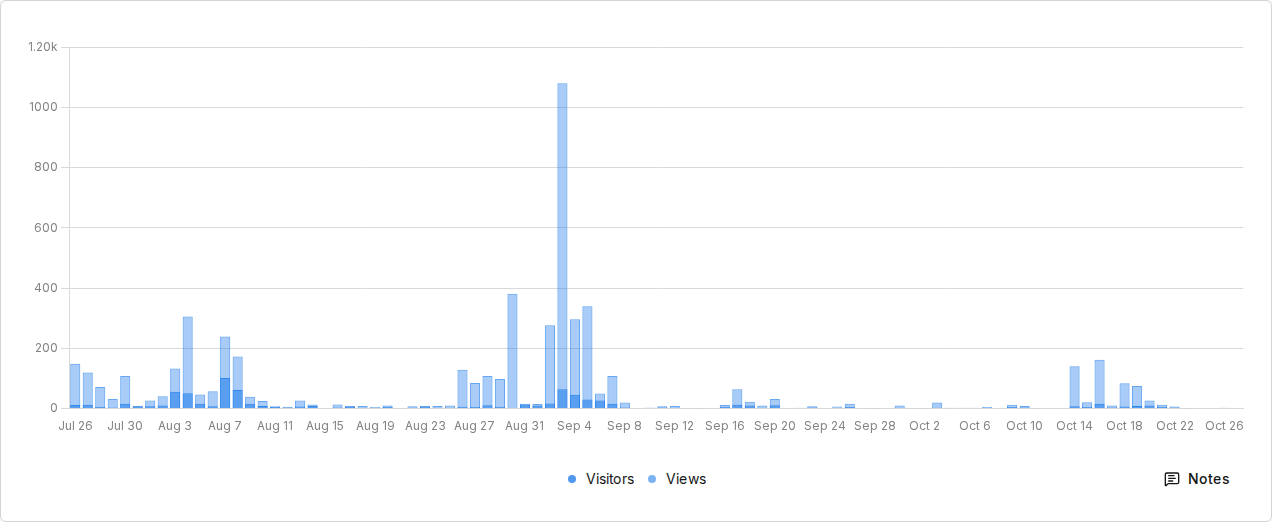
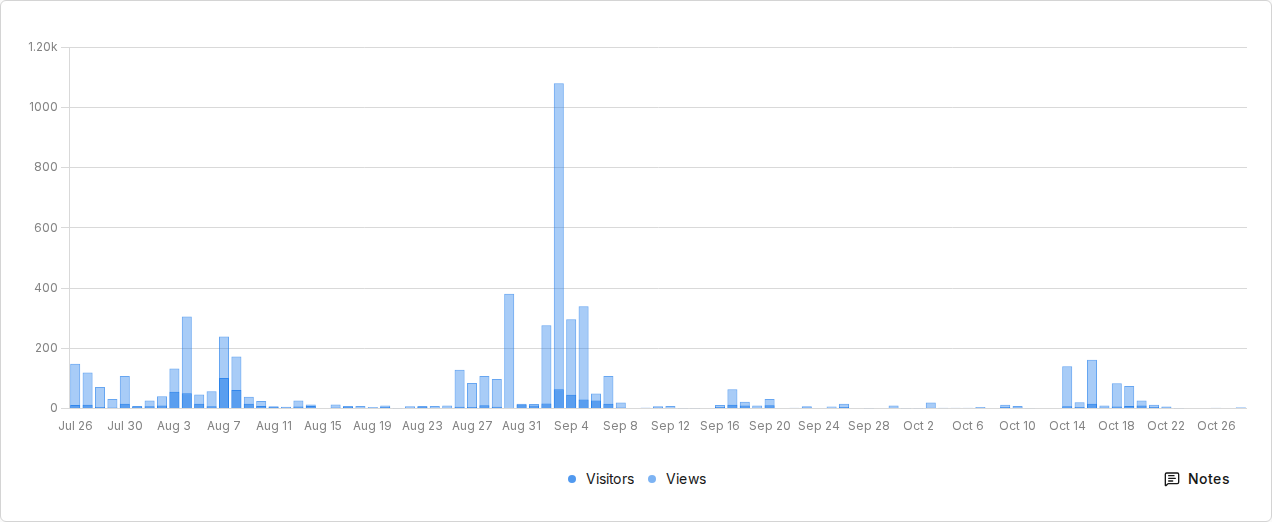
chore: refresh Umami analytics snapshot
Validated daily Umami snapshot; required main checks and rules enforced.

Changed region(s): [[0.1226, 0.1533, 0.9811, 0.8276]]

diff --git a/README.md b/README.md
@@ -28,7 +28,7 @@ Start with an original backing track, explore its key and chord shapes, then org
 
 Daily Umami analytics snapshot for Jam Tracks Hub.
 
-Last updated: Oct 28, 2026, 9:21 AM
+Last updated: Oct 29, 2026, 9:47 AM
 
 <p align="center">
   <img src="assets/analytics/umami-dashboard.png" alt="Umami analytics dashboard" width="100%" />
